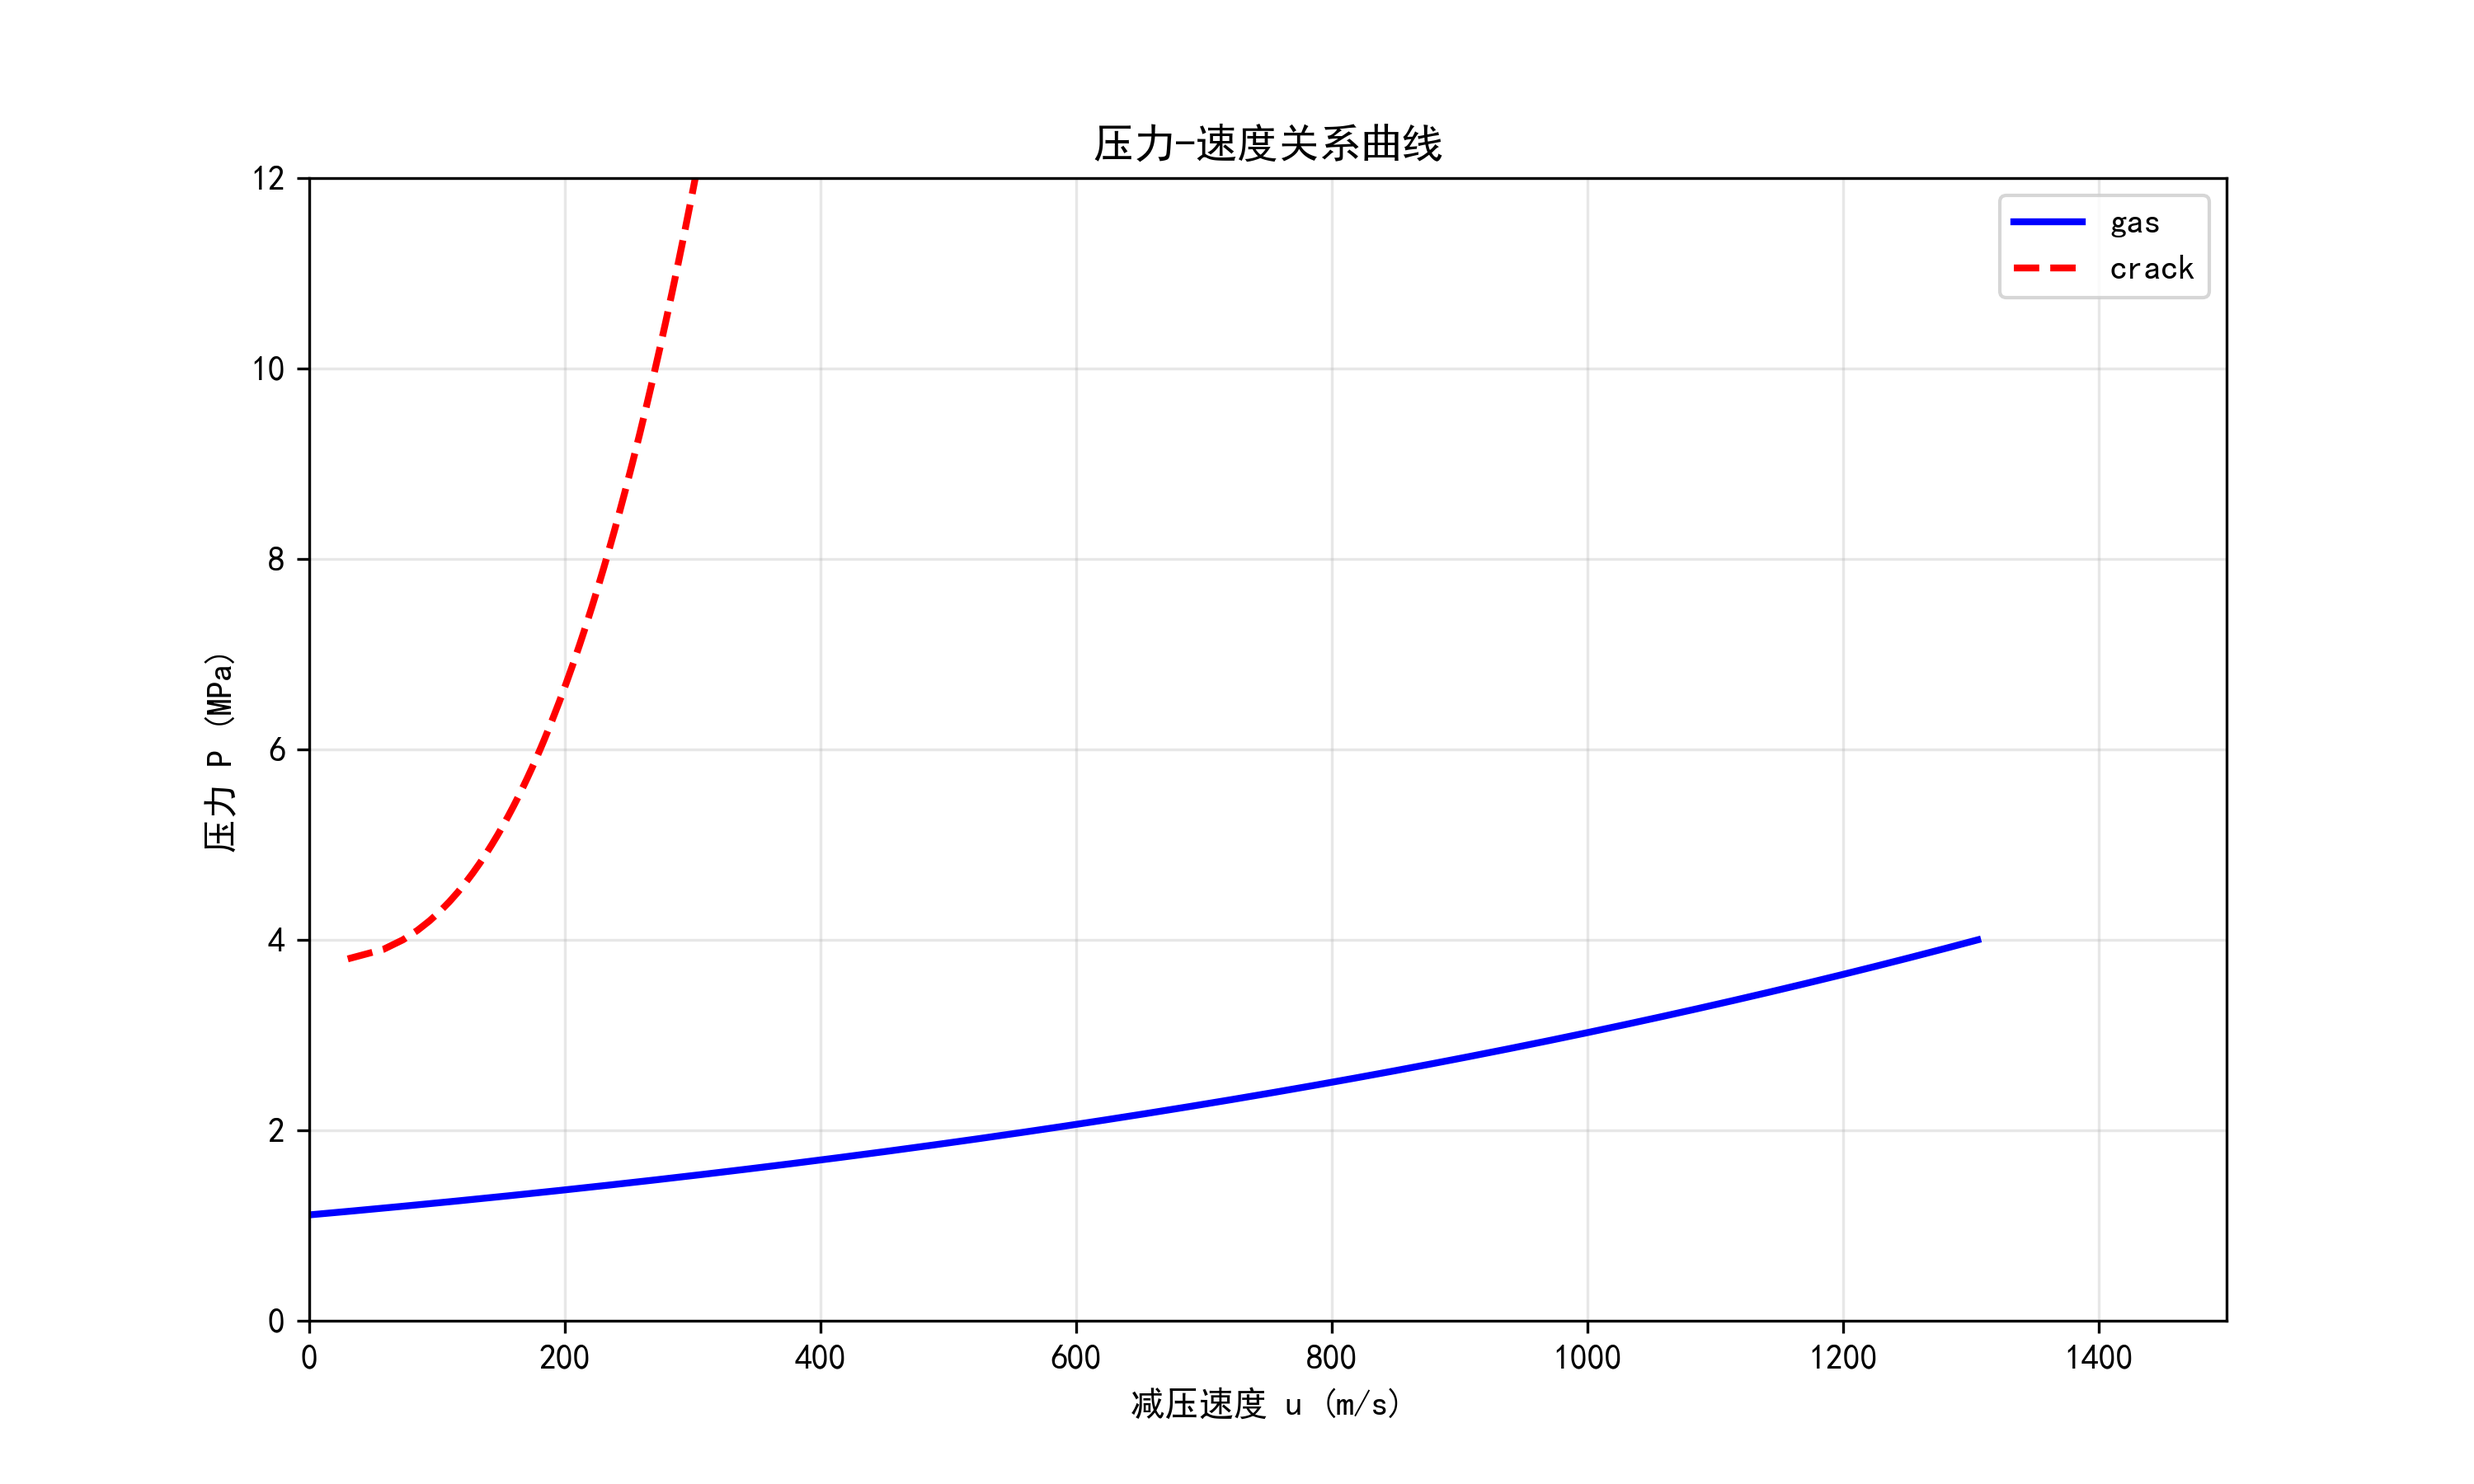
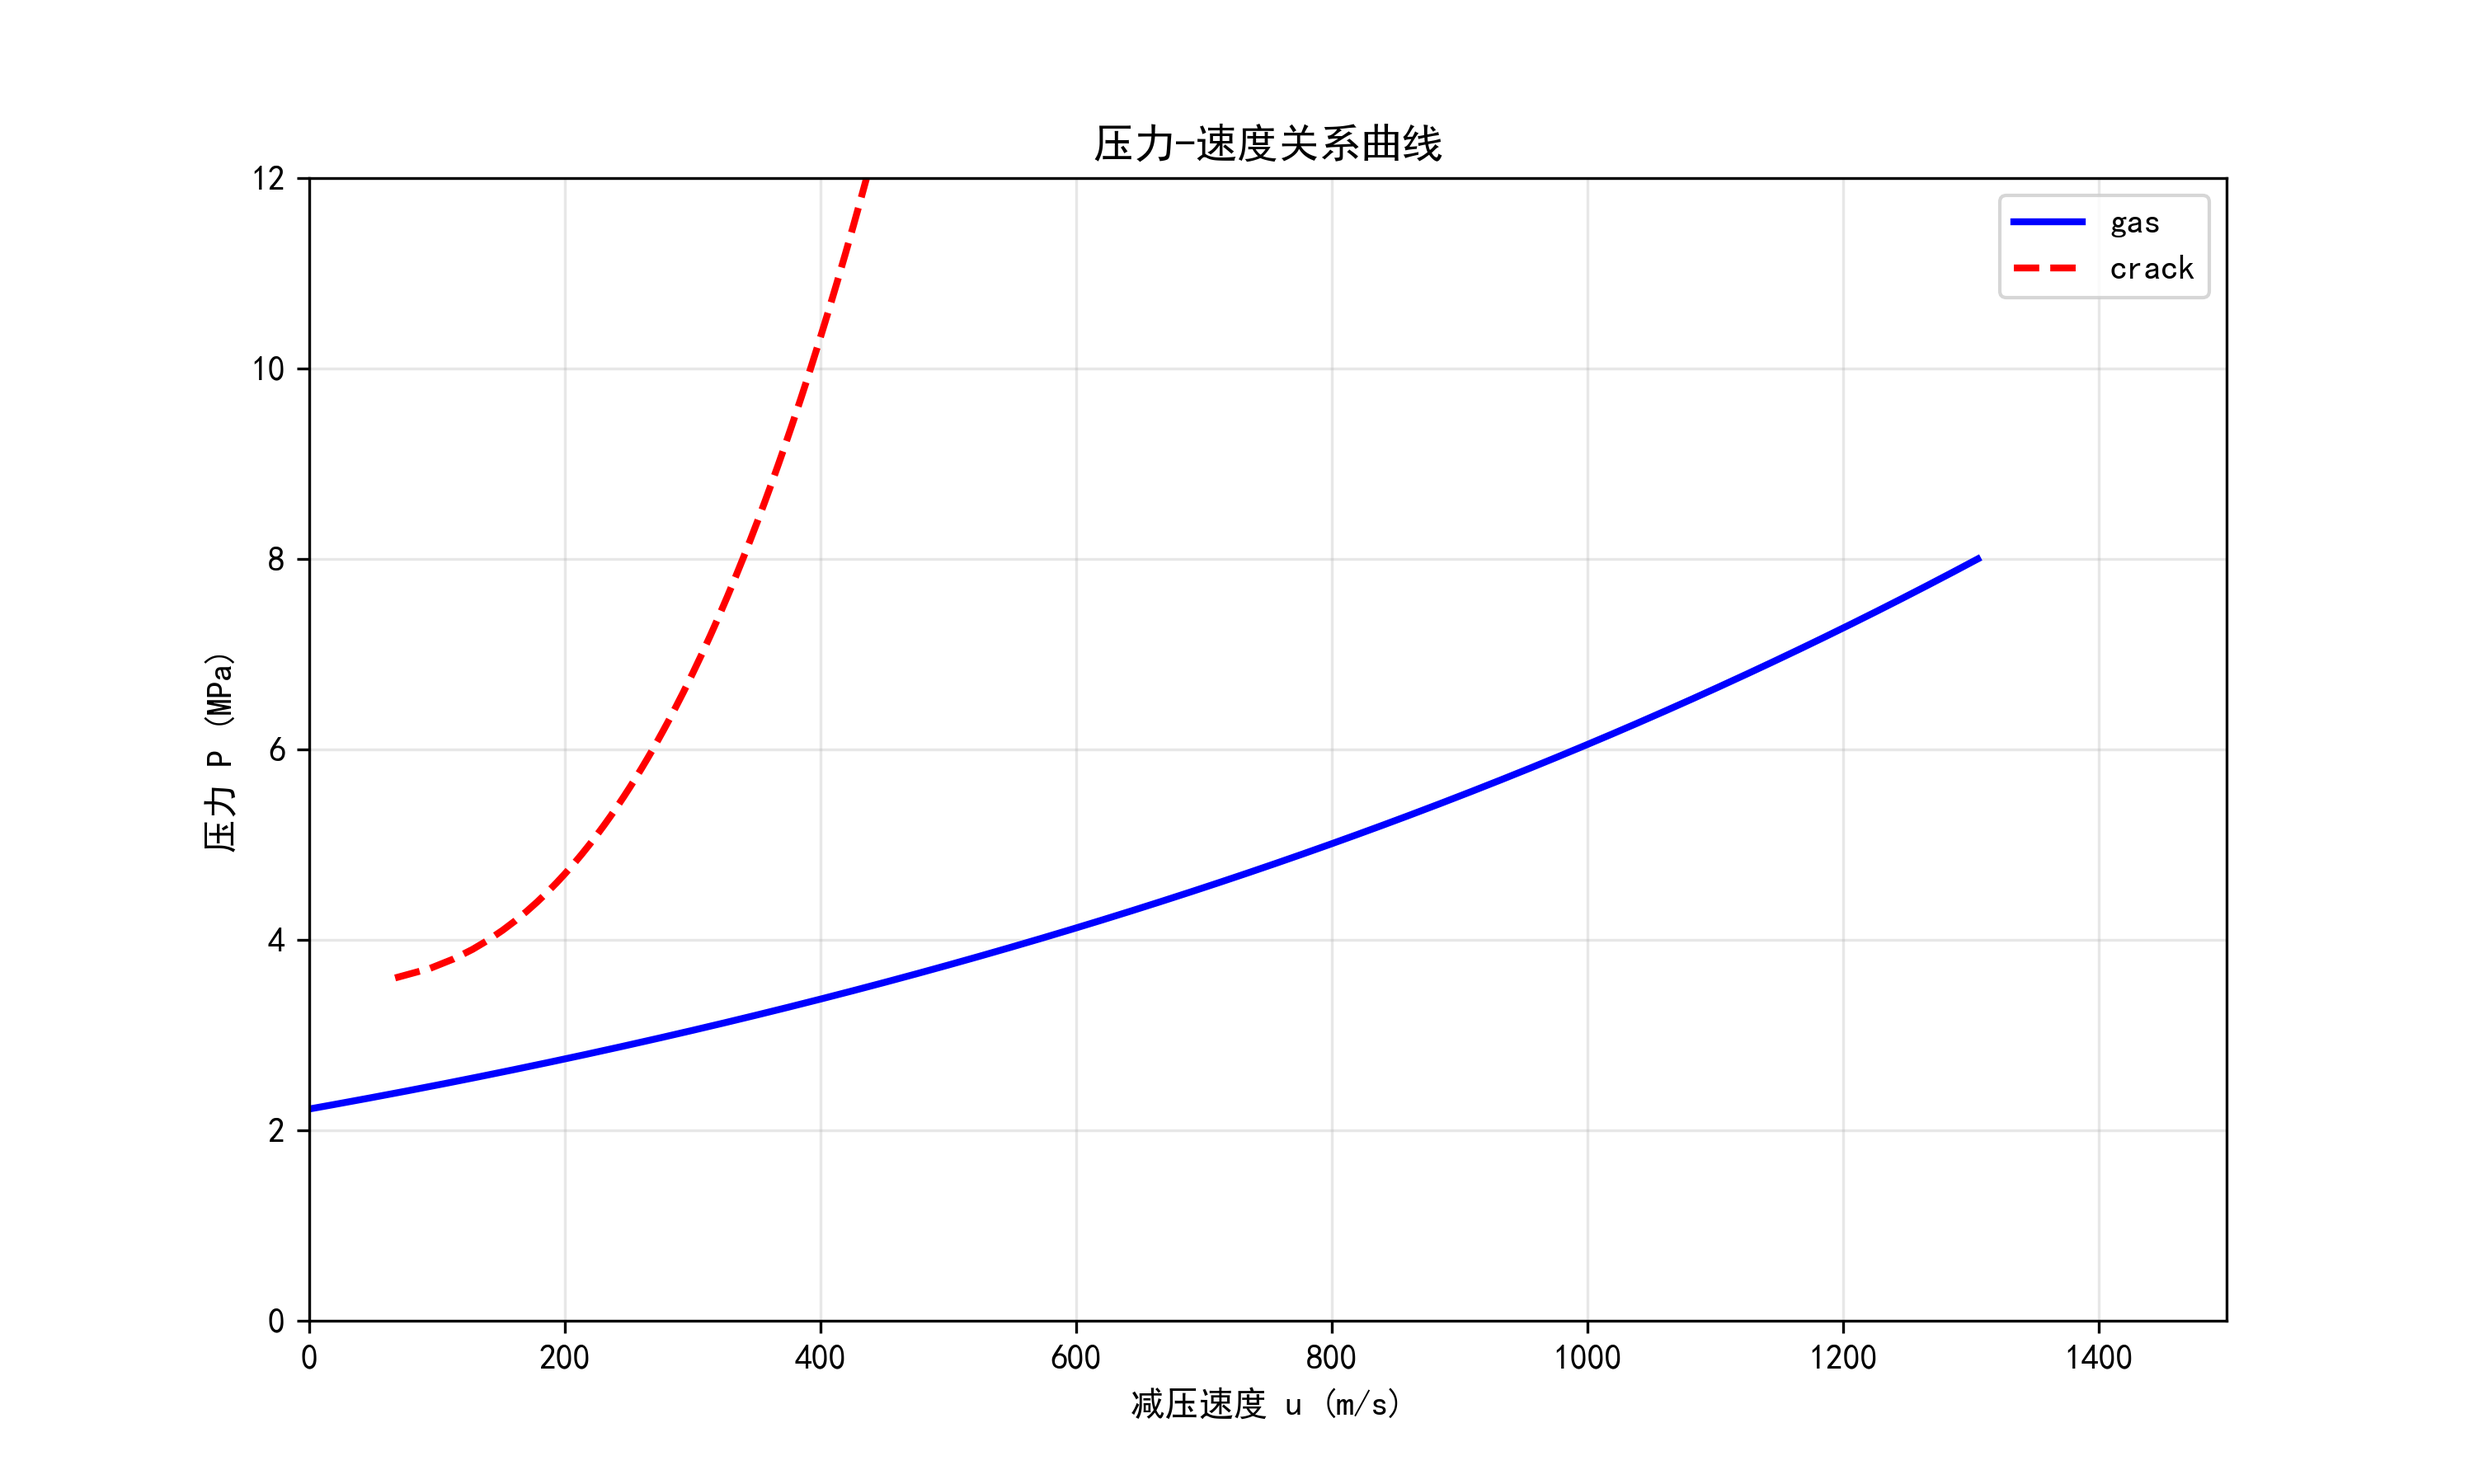
修改泄漏流速

diff --git a/decompression_velocity.py b/decompression_velocity.py
@@ -21,14 +21,14 @@ L = 2.1
 D = 0.45
 V0 = math.pi * (D/2)**2 * L  # 初始体积 m³
 r = 1.41
-P0 = 1e6  # 初始压力 Pa
+Pair = 1e6  # 环境压力 Pa
 T0 = 293  # 初始温度 K
 R = 8.14
 t1 = 0.4 / 200
-t2 = 0.5 / 200
+t2 = 0.9 / 200
 
 class IsentropicFlowSimulator:
-    def __init__(self,gas_name = "hydrogen", P0=1e6, T0=293, u0=0.0, dt=1e-5, max_steps=10000):
+    def __init__(self,gas_name = "hydrogen", P0=8e6, T0=293, u0=0.0, dt=1e-5, max_steps=10000):
         """
         初始化等熵流动模拟器
         
@@ -55,6 +55,7 @@ class IsentropicFlowSimulator:
         
         self.gamma = self.gas[gas_name]["gamma"]
         self.R = self.gas[gas_name]["R"]
+        self.molar = self.gas[gas_name]["molar_mass"]
         self.P0 = P0
         self.T0 = T0
         self.rho0 = self.P0 / self.R / self.T0
@@ -93,18 +94,22 @@ class IsentropicFlowSimulator:
         """计算局部波速: W_local = a - u"""
         return a - u
     
-    def calculate_Qv(self, time):
+    def calculate_Qv(self, time, P_current):
         A = self.calulate_leakage_area(time)
-        Qv = A * self.P0 / math.sqrt(self.R * self.T0) * pow((2/(self.gamma + 1)),(1 / (self.gamma - 1))) * math.sqrt(2 * self.gamma / (self.gamma + 1))  # 假设温度Tc为常数
+        # Qv = A * self.P0 / math.sqrt(self.R * self.T0) * pow((2/(self.gamma + 1)),(1 / (self.gamma - 1))) * math.sqrt(2 * self.gamma / (self.gamma + 1))  # 假设温度Tc为常数
+        temp = pow(2 / (self.gamma + 1), (self.gamma + 1)/(self.gamma - 1))
+        v =  P_current * math.sqrt(self.gamma / (self.R * self.T0) * temp)
+        Qv = v * A / 10
         return Qv
     
     def update_state(self, P_prev, rho_prev, u_prev, m_prev, t):
         """
         使用公式1更新状态: u_i = u_{i-1} + (P_{i-1} - P_i)/(a_i * ρ_i)
         """
-        Qv = self.calculate_Qv(t)  # 假设温度Tc为常数
-        Qm = Qv * self.dt
+        Qv = self.calculate_Qv(t, P_prev)  # 假设温度Tc为常数
+        Qm = Qv * self.dt * rho_prev
         m_current = m_prev - Qm  # 质量守恒
+        print("m_current", m_current)
         P_current = P_prev * m_current / m_prev
         
         rho_current = rho_prev * (P_current / P_prev) ** (1/self.gamma)

diff --git a/main.py b/main.py
@@ -4,7 +4,7 @@ from tools import draw
 
 simulator = IsentropicFlowSimulator(
         gas_name="hydrogen",
-        P0=4e6,      # 10MPa
+        P0=8e6,      # 8MPa
         T0=293,    # 293 K
         u0=0.0,      # 初始静止
         dt=1e-5,     # 时间步长
@@ -13,13 +13,14 @@ simulator = IsentropicFlowSimulator(
 gas_results = simulator.simulate(target_W=0.0, tolerance=1e-3)
 
 CrackVelocityCalculator_instance = CrackVelocityCalculator(
-    t=6.3,        # 管道壁厚 (mm)
+    t=6,        # 管道壁厚 (mm)
     D=450.0,       # 管道直径 (mm)
     YS=400.0,      # 屈服应力 (MPa)
     TS=500.0,      # 抗拉强度 (MPa)
-    P=4,         # 裂纹尖端扩展压力 (MPa)
-    Cv=200.0,      # 夏比冲击吸收能量 (J)
-    Ac=100.0      # 预裂纹夏比试样韧带面积 (mm²)
+    Pmin=1,         # 最小裂纹尖端扩展压力 (MPa)
+    Pmax=12,        # 最大裂纹尖端扩展压力 (MPa)
+    Cv=50.0,      # 夏比冲击吸收能量 (J)
+    Ac=80.0      # 预裂纹夏比试样韧带面积 (mm²)
 )
 crack_results = CrackVelocityCalculator_instance.calculate()
 

diff --git a/crack_velocity.py b/crack_velocity.py
@@ -19,12 +19,13 @@ class CrackVelocityCalculator:
     包含计算流动应力、裂纹止裂压力、裂纹速度和断裂阻力比的方法
     """
 
-    def __init__(self, t = 6.3, D = 450.0, YS = 430, TS = 530, P = 8.0, Cv = 100.0, Ac = 100.0):
+    def __init__(self, t = 6.3, D = 450.0, YS = 430, TS = 530, Pmin = 1, Pmax = 12, Cv = 100.0, Ac = 100.0):
         self.t = t  # 壁厚 mm
         self.D = D  # 直径 mm
         self.YS = YS  # 屈服应力 MPa
         self.TS = TS  # 抗拉强度 MPa
-        self.P = P  # 扩展压力 MPa
+        self.Pmin = Pmin  # 最小扩展压力 MPa
+        self.Pmax = Pmax  # 最大扩展压力 MPa
         self.Cv = Cv  # 夏比冲击能量 J
         self.Ac = Ac  # 韧带面积 mm²
         self.P_min = 1.0  # 最小压力 MPa
